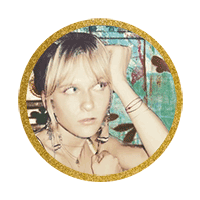
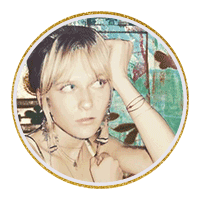
adjusted image

diff --git a/styles.css b/styles.css
@@ -315,9 +315,6 @@ img.p1, img.p2, img.p3, img.p4{
 }
 
 .picofme { 
-    outline: 4px solid var(--color-screen);
-    border-radius: 100px;
-    outline-offset: -32px;
     padding: .5rem;
     margin: .25rem
 }
